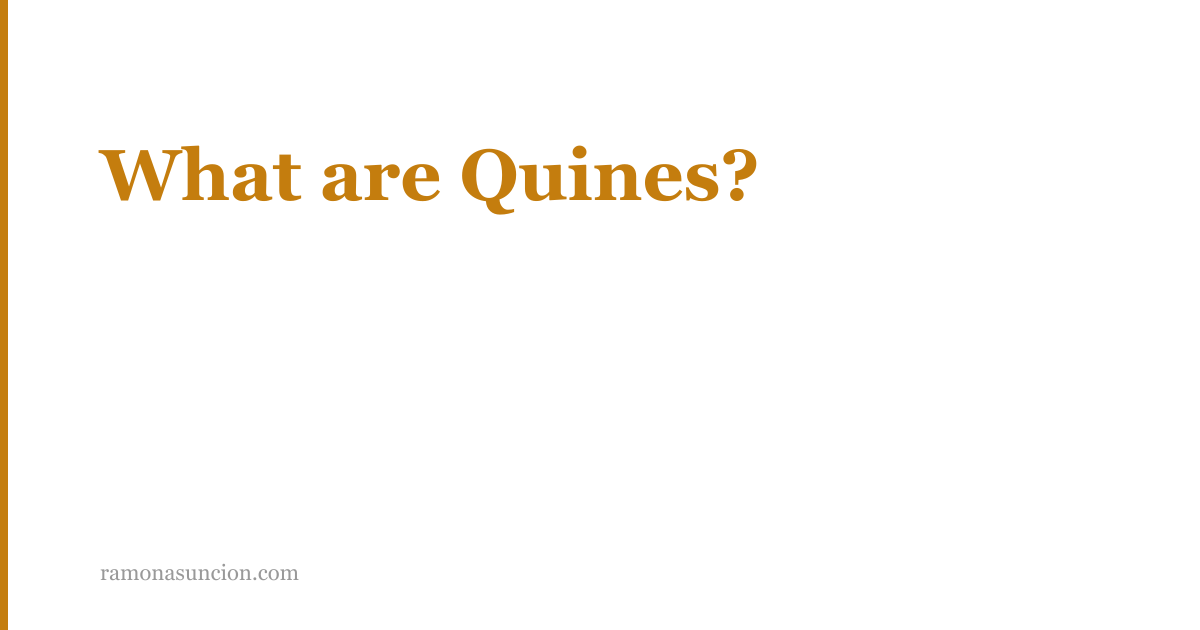
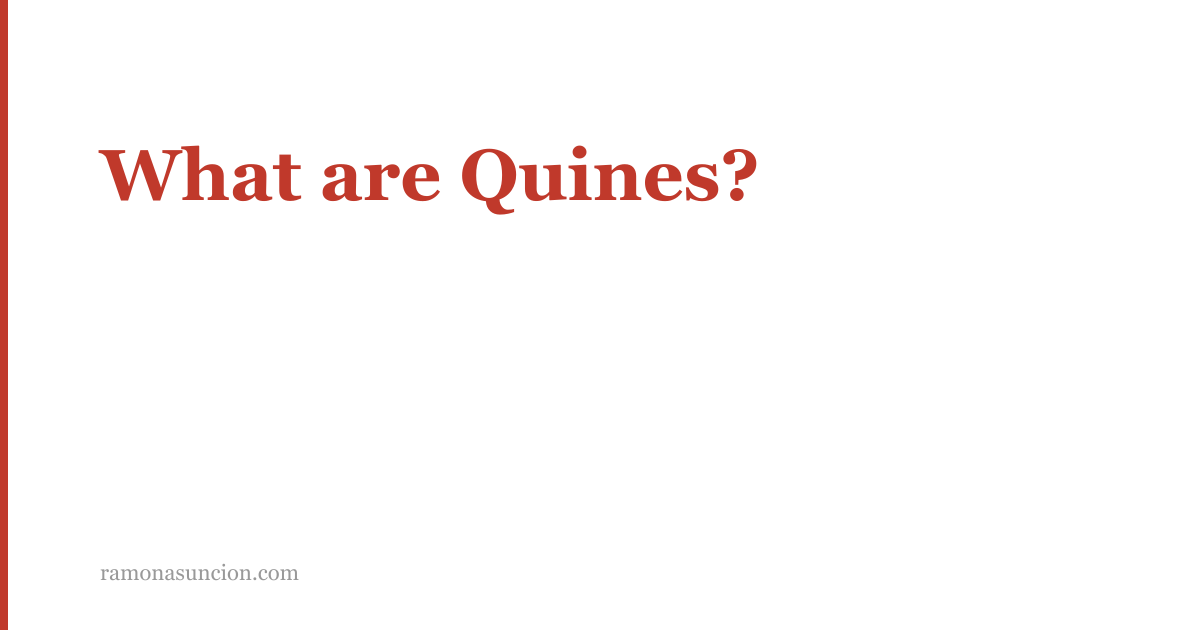
Ok final color

Changed region(s): [[0.0617, 0.2111, 0.6475, 0.3619], [0.0, 0.0, 0.0308, 1.0]]

diff --git a/build.js b/build.js
@@ -179,7 +179,7 @@ async function generateOgImage(title, outPath) {
   const titleLines = lines
     .map(
       (line, i) =>
-        `<text x="100" y="${startY + i * lineHeight}" font-family="Georgia, serif" font-size="${fontSize}" font-weight="700" fill="#c47d0e">${escape(line)}</text>`,
+        `<text x="100" y="${startY + i * lineHeight}" font-family="Georgia, serif" font-size="${fontSize}" font-weight="700" fill="#c0392b">${escape(line)}</text>`,
     )
     .join("\n  ");
 

diff --git a/assets/styles.css b/assets/styles.css
@@ -4,7 +4,7 @@
 
 /* Root variables */
 :root {
-  --accent: #c47d0e;
+  --accent: #c0392b;
   --bg: #ffffff;
   --muted: #666;
   --max-width: 720px;
@@ -189,7 +189,7 @@ footer {
 .footer-social-links a:focus,
 .footer-social-links a:hover i,
 .footer-social-links a:focus i {
-  color: #b32d2d;
+  color: #c0392b;
 }
 
 /* Images and videos */
